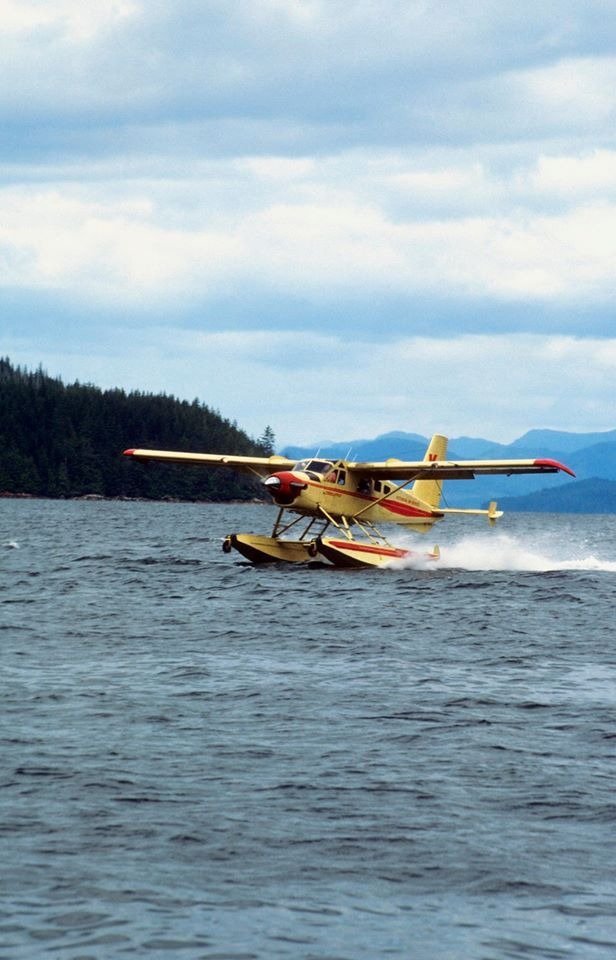
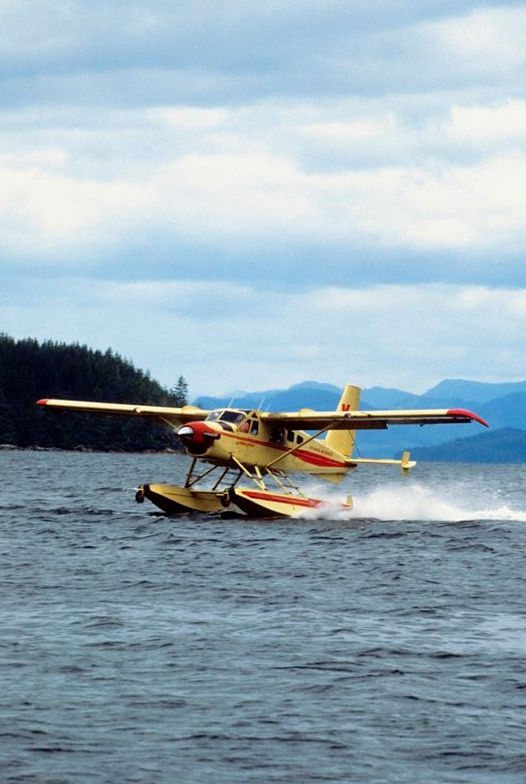
updates to pages and pages of scripty thingy contents

diff --git a/_sass/_layout.scss b/_sass/_layout.scss
@@ -106,7 +106,7 @@
     margin-bottom: 10rem;
 }
 
-nav {
+nav.side-menu {
     font-size: $small-medium-font-size;
 
     ul {
@@ -178,10 +178,13 @@ nav {
     padding: 19px;
     border: 1px solid $white;
     background: $white-alpha;
+    position:relative;
 
     .fa {
         color: $tan;
     }
+
+
 
     &.panel-loud {
         text-align:center;
@@ -195,17 +198,20 @@ nav {
     &.panel-brand {
         font-family: $fancy-font-family;
         font-size: $medium-font-size;
-        color: $green;
+        color: $text-color;
         padding-top: 20px;
         padding-bottom: 250px;
-        background: linear-gradient(rgba(255,255,255,0.5), rgba(255,255,255,0.5)), url('../images/plane-square.jpg');
-        background-position: center top;
+        background: linear-gradient(rgba(255,255,255,0.5), rgba(255,255,255,0.5)), url('../images/plane.jpg');
+        background-position: center;
         background-size:cover;
 
-        p {
-            margin-bottom: 5px;
+        p.boom {
+            font-style: italic;
+            margin-bottom: 21rem;
         }
     }
+
+
 
     @include media-query($on-palm) {
         &.panel-brand {
@@ -216,6 +222,41 @@ nav {
     }
 }
 
+    .table-of-contents {
+        float: right;
+        top:0;
+        right:0;
+        padding: 1rem;
+        margin-bottom: 10px;
+        margin-left: 10px;
+        background-color: $white;
+        border-radius: 4px;
+        max-width: 350px;
+
+        a {
+            color: $blue;
+        }
+    }
+
+    .back-to-top {
+        position: fixed;
+        bottom: 10px;
+        right: 30px;
+        border-radius: 50%;
+        width: 40px;
+        height: 40px;
+        padding: 4px 5px;
+        background: $white-alpha;
+        color: $red;
+        text-align: center;
+        font-size: 25px;
+
+        .glyphicon {
+            top: -2px;
+            margin-right: 2px;
+            margin-left: 2px;
+        }
+    }
 
 /**
  * Site footer

diff --git a/_includes/sidebar.html b/_includes/sidebar.html
@@ -1,4 +1,4 @@
-<nav>
+<nav class="side-menu">
     <ul role="navigation">
         <li class="{% if page.url == '/' %}active{% endif %}">
             <a href="{{ '/' | prepend: site.baseurl }}">Home</a>
@@ -8,9 +8,6 @@
         </li>
         <li class="{% if page.url == '/about/' %}active{% endif %}">
             <a href="{{ '/about' | prepend: site.baseurl }}">About Norseman</a>
-        </li>
-        <li class="{% if page.url == '/why-norseman/' %}active{% endif %}">
-            <a href="{{ '/why-norseman' | prepend: site.baseurl }}">Why Work With Us</a>
         </li>
         <li class="{% if page.url == '/roadmap/' %}active{% endif %}">
             <a href="{{ '/roadmap' | prepend: site.baseurl }}">Roadmap</a>

diff --git a/_includes/head.html b/_includes/head.html
@@ -15,6 +15,7 @@
   <script src="https://code.jquery.com/jquery-3.2.1.min.js" integrity="sha256-hwg4gsxgFZhOsEEamdOYGBf13FyQuiTwlAQgxVSNgt4=" crossorigin="anonymous"></script>
   <script src="https://maxcdn.bootstrapcdn.com/bootstrap/3.3.7/js/bootstrap.min.js" integrity="sha384-Tc5IQib027qvyjSMfHjOMaLkfuWVxZxUPnCJA7l2mCWNIpG9mGCD8wGNIcPD7Txa" crossorigin="anonymous"></script>
   <script src="{{ site.baseurl }}/js/sweetalert2.min.js"></script>
+  <script src="{{ site.baseurl }}/js/scripts.js"></script>
   <!-- Include a polyfill for ES6 Promises (optional) for IE11 and Android browser -->
   <script src="https://cdnjs.cloudflare.com/ajax/libs/core-js/2.4.1/core.js"></script>
 </head>

diff --git a/js/scripts.js b/js/scripts.js
@@ -1,0 +1,19 @@
+function elementInViewport(el) {
+  var top = el.offsetTop;
+  var left = el.offsetLeft;
+  var width = el.offsetWidth;
+  var height = el.offsetHeight;
+
+  while(el.offsetParent) {
+    el = el.offsetParent;
+    top += el.offsetTop;
+    left += el.offsetLeft;
+  }
+
+  return (
+    top >= window.pageYOffset &&
+    left >= window.pageXOffset &&
+    (top + height) <= (window.pageYOffset + window.innerHeight) &&
+    (left + width) <= (window.pageXOffset + window.innerWidth)
+  );
+}

diff --git a/_sass/_base.scss b/_sass/_base.scss
@@ -101,6 +101,10 @@ a {
     }
 }
 
+article a {
+    color: $blue;
+}
+
 a.white-link {
     color: $white;
     text-decoration: none;

diff --git a/overview.md b/overview.md
@@ -49,7 +49,7 @@ underwriting criteria in determining who is eligible for a life settlement:
 * Have a significant amount of life insurance (e.g., $250,000 or more)
 * The policy is past the contestability period (generally 2 years from policy inception)
 
-### Policies less than two years old
+## Policies less than two years old
 
 * Most life settlement providers require that a life insurance policy be in effect for more than two years. That
 is because an incontestability clause is standard in most life insurance policies. This clause typically
@@ -75,9 +75,9 @@ premium paid), or it can offer her the option of a higher premium to compensate 
 information. After two years, the insurer likely has no recourse and must continue to provide
 the life insurance coverage agreed to in the contract.
 
-### Advantages of life settlements
+## Advantages of life settlements
 
-#### Often a better payout than surrendering for cash value
+### Often a better payout than surrendering for cash value
 
 * Life settlements allow policyowners more flexibility in managing the cash value of their life insurance
 policies. If a policyowner wants to forfeit a policy's death benefit and "cash out" of the policy, he or she
@@ -87,7 +87,7 @@ use the proceeds for any purpose he or she wishes--including making lifetime gif
 
     * <strong class="danger">Caution:</strong> Individual gifts in excess of the annual gift tax exclusion made from proceeds of a life settlement may be subject to gift tax.
 
-#### Life insurance dollars can be applied to other needs
+### Life insurance dollars can be applied to other needs
 
 * Individuals purchase life insurance for many reasons (e.g., to provide income to their families in case of
 their death, to pay for children's college education). When children become independent and couples
@@ -101,7 +101,7 @@ careers, is often an important part of financial plans for older individuals. Ho
 costly, and cash may not be readily available. A life settlement may be a source of funds to purchase
 such long-term care insurance.
 
-### Disadvantages of life settlements
+## Disadvantages of life settlements
 
 * Currently, there is little regulation of life settlements, so there is some potential for confusion and
 misunderstanding. This is expected to change over time, however.
@@ -112,9 +112,9 @@ the life settlement option.
 * Still, the obvious disadvantage of both life settlements and surrendering a life insurance policy is that an
 individual gives up all rights in the policy, most notably the death benefit.
 
-### What alternative options are available?
+## What alternative options are available?
 
-#### Surrender the policy
+### Surrender the policy
 
 * When a life insurance policy is surrendered, the policyowner turns in the policy for a predetermined sum
 of money. This is the surrender value, and it is typically much less than the amount one can expect from a
@@ -123,7 +123,7 @@ premiums to the current cash value amount and subtracting any outstanding loans 
 surrender charges. If there is any gain (difference between premiums paid and surrender value), that
 amount will be taxed as ordinary income.
 
-#### Obtain a policy loan
+### Obtain a policy loan
 
 * Unless otherwise stated in the policy, a policyowner has the right to borrow against the accumulated cash
 value in his or her life insurance policy. A policy loan may yield a better interest rate than what is currently
@@ -134,20 +134,20 @@ value that has built up in the policy.
 
     * <strong class="info">Tip:</strong> Interest on life insurance policy loans is not tax deductible to individuals, although it may, in some instances, be tax deductible to businesses.
 
-#### Let policy lapse
+### Let policy lapse
 
 * If the policyowner ceases premium payments, the policy will eventually lapse (after the stated grace
 period expires), unless the cash value is great enough to generate dividends or interest sufficient to
 sustain the policy. Should the policy lapse, the accumulated cash value will be forfeited. However, no
 income tax liability will be incurred, and no surrender charges will be due.
 
-### How are life settlements regulated?
+## How are life settlements regulated?
 
 * Currently, more than half of the states have statutes regulating life settlements. Most states that have
 enacted such legislation protect consumers by requiring life settlement agents and brokers to register and
 be licensed.
 
-### What are the tax implications of a life settlement?
+## What are the tax implications of a life settlement?
 
 * Since life settlements by definition don't meet the rigid criteria of viatical settlements, the proceeds will
 generally be taxable. Because the life settlement practice is still unfolding, it is important to discuss these
@@ -168,3 +168,54 @@ to the sale of the same policy.
     - <strong class="info">Example(s):</strong> Lou owns a cash value life insurance policy with a death benefit of $500,000. He is 68 years old and has recently been diagnosed with emphysema. Lou needs money to pay for medical treatments and is considering using his life insurance policy for that purpose. He is thinking about either surrendering the policy for its cash value or selling it to a life settlement company. Part of his decision will be based on the income tax consequences of each option. Lou has owned the policy for 10 years and has paid $60,000 in premiums. The cost of insurance during his ownership of the policy is $10,000. The cash surrender value is $85,000 and he has been offered $100,000 if he sells the policy to a life settlement company.
     - <strong class="info">Example(s):</strong> 1. According to IRS Revenue Ruling 2009-13, if Lou surrenders his policy, he will realize $25,000 of gain ($85,000 - $60,000) which is taxed as ordinary income.
     - <strong class="info">Example(s):</strong> 2. On the other hand, if Lou sells his policy, his basis is adjusted ($60,000 - $10,000 = $50,000) to reflect the cost of insurance paid during the years he owned the policy. Thus, his gain from the sale is $50,000 ($100,000 - $50,000). The inside buildup in the policy, $25,000 (surrender value less basis), is taxed as ordinary income. The balance of the sale, $25,000, is taxed as long term capital gain.
+
+<a href="#" class="back-to-top"><span class="glyphicon glyphicon-chevron-up"></span></a>
+
+<script>
+    $(document).ready(function(){
+        initTableOfContents();
+        initBackToTop();
+    });
+    
+    function initTableOfContents() {
+        var ToC = "<nav role='navigation' class='table-of-contents'>" +
+                    "<h4>On this page:</h4>" +
+                        "<ul>";
+        
+        var newline, el, title, link;
+        $("h2").each(function() {
+            el = $(this);
+            title = el.text();
+            id = title.toLowerCase().split(" ").join("_");
+            el.attr("id", id)
+
+            newline =   "<li>" +
+                            "<a href='#" + id + "'>" + title + "</a>"
+                        "</li>";
+
+            ToC += newline;
+        });
+        ToC += "</ul></nav>";
+        $("article").prepend(ToC);
+    }
+
+    function initBackToTop() {
+            var offset = 250;
+ 
+            var duration = 300;
+ 
+            $(window).scroll(function() {
+                if ($(this).scrollTop() > offset) {
+                    $('.back-to-top').fadeIn(duration);
+                } else {
+                    $('.back-to-top').fadeOut(duration);
+                }
+            });
+
+            $('.back-to-top').click(function (event) {
+                event.preventDefault();
+                $('html, body').animate({ scrollTop: 0 }, duration);
+                return false;
+            });
+    }
+</script>

diff --git a/about.md b/about.md
@@ -1,6 +1,6 @@
 ---
 layout: page-no-header
-title: About our Name & Logo
+title: About Norseman Group
 permalink: /about/
 ---
 
@@ -20,6 +20,6 @@ permalink: /about/
     <p>The Norseman Group was named after this aircraft because we have the same characteristics which are needed to guide you safely through the world of Life Settlements.</p>
   </div>
 </div>
-<div class="text-center">
-This is why major financial service companies choose us.
-</div>
+<p class="text-center boom">
+  This is why major financial service companies choose us.
+</p>
